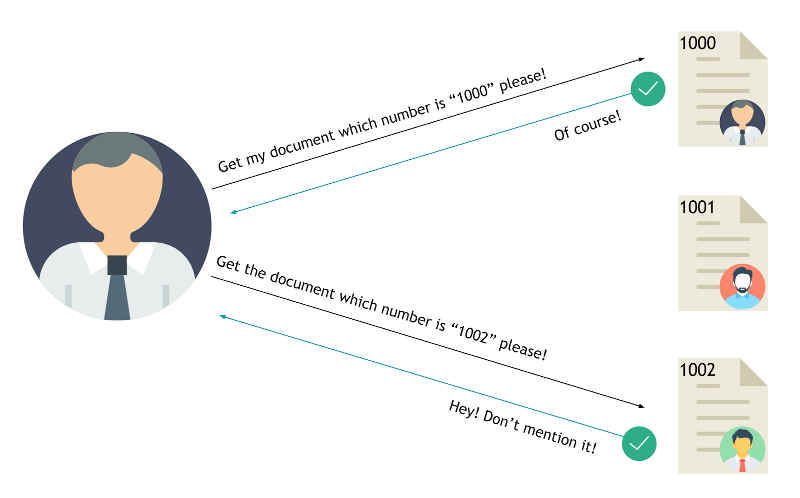
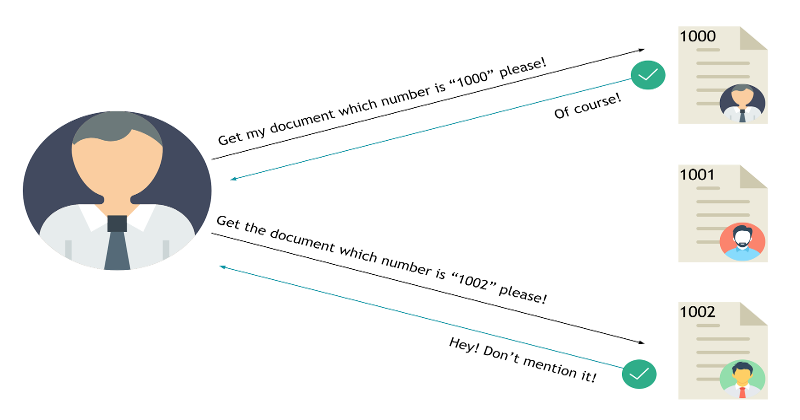
XXE Basics and image adjustments

diff --git a/_posts/2019-23-08-XXE-Basics.md b/_posts/2019-23-08-XXE-Basics.md
@@ -1,0 +1,47 @@
+---
+layout: post
+title: "XXE Basics"
+author: milchoH
+date: 2019-08-23
+image: XXE.png
+category: tutorials
+
+---
+
+# What is XXE
+An XML External Entity attack is a type of attack against an application that parses XML input. This attack occurs when XML input containing a reference to an external entity is processed by a weakly configured XML parser. This attack may lead to the disclosure of confidential data, denial of service, server side request forgery, port scanning from the perspective of the machine where the parser is located, and other system impacts.[1]
+
+# Types of XXE
+
+There are various types of XXE attacks:
+
+- **Exploiting XXE to retrieve files**, where an external entity is defined containing the contents of a file, and returned in the application's response.
+- **Exploiting XXE to perform SSRF attacks**, where an external entity is defined based on a URL to a back-end system.
+- **Exploiting blind XXE exfiltrate data out-of-band**, where sensitive data is transmitted from the application server to a system that the attacker controls.
+- **Exploiting blind XXE to retrieve data via error messages**, where the attacker can trigger a parsing error message containing sensitive data.[2]
+
+# Example scenarios
+
+For this example I will use Portswigger's labs in order to demonstrate how we can retrieve files using XXE.[3]
+
+An example scenario can be a web application, that checks if items are in stock in certain store. So the application can be sending requests like: 
+
+![Image](/images/InitialRequest.png)
+
+Which result in such responses:
+
+![Image](/images/InitialResponse.png)
+
+In order to try exploiting the XML parser and accessing a the **etc/passwd** file on the target system, we can create a modified request looking like:
+
+![Image](/images/ExploitRequest.png)
+
+And if the application is vulnerable and the attack is successfull, we should receive response looking like:
+
+![Image](/images/ExploitResponse.png)
+
+# References
+
+1. [OWASP XML External Entity (XXE) Processing](https://www.owasp.org/index.php/XML_External_Entity_(XXE)_Processing)
+2. [Portswigger XML external entity (XXE) injection](https://portswigger.net/web-security/xxe#exploiting-xxe-to-perform-ssrf-attacks)
+3. [Portswigger XXE file retrival lab](https://portswigger.net/web-security/xxe/lab-exploiting-xxe-to-retrieve-files)
